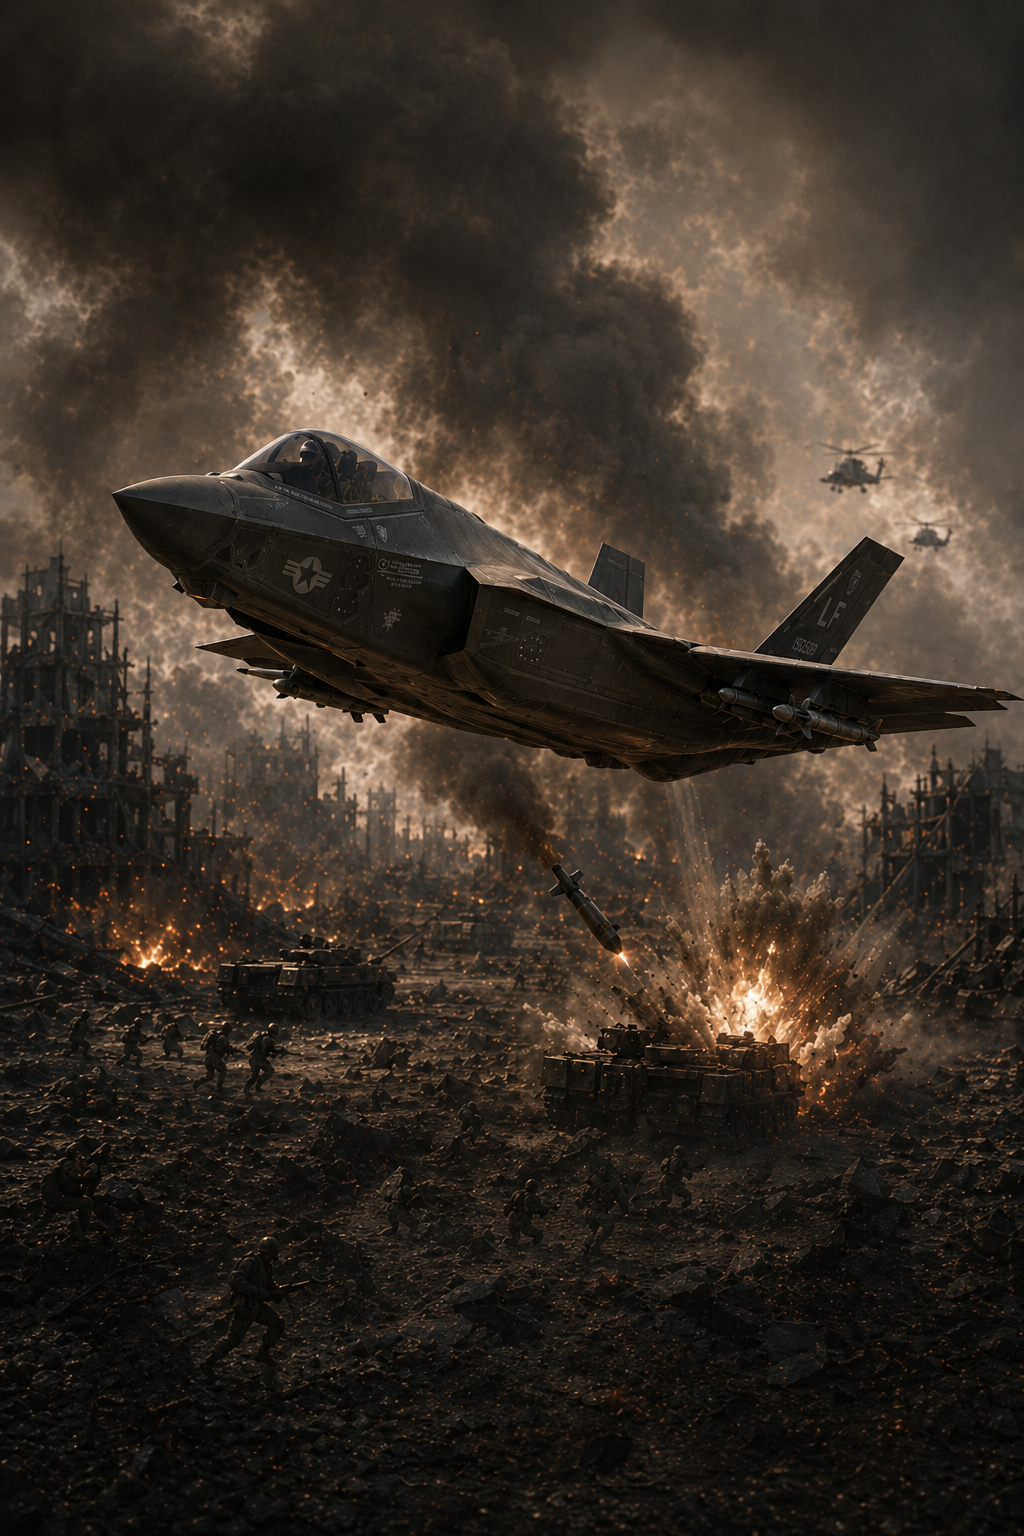
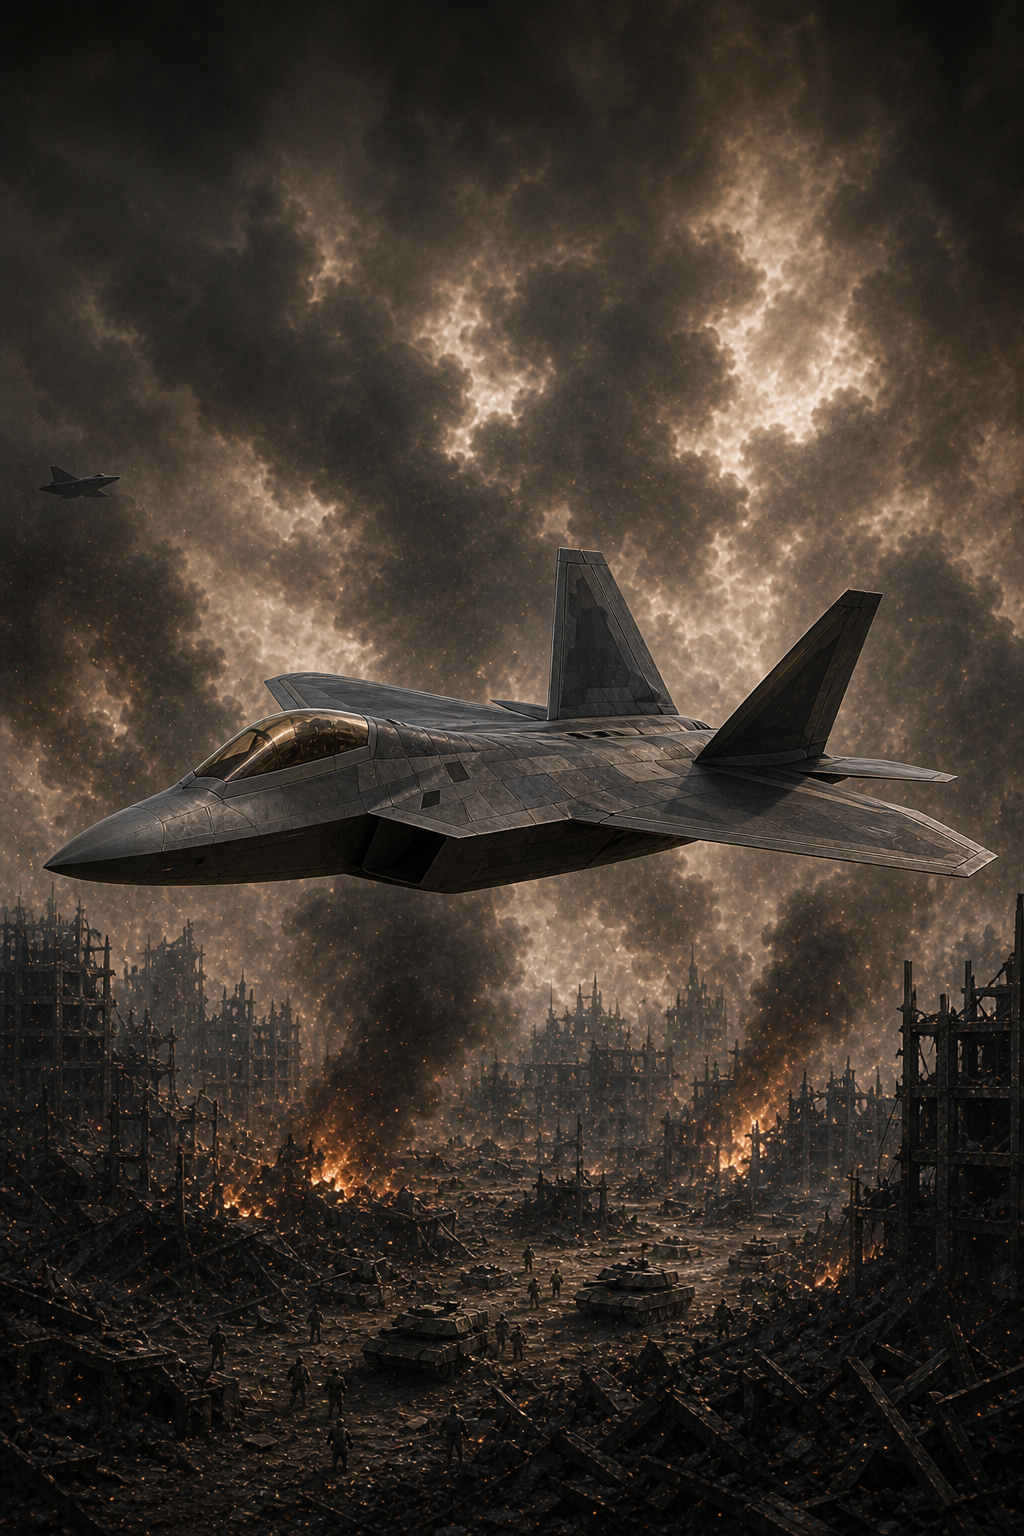
Add F-22 F-35A and Su-57 card art

diff --git a/src/game-data.js b/src/game-data.js
@@ -3283,7 +3283,7 @@ const V07_CARD_OVERRIDES = {
     "specialization": "反辐射压制、有限制空",
     "tags": ["战斗机", "SEAD", "SEAD导弹"],
     "effect": "【SEAD反辐射导弹】：对一个暴露的【重型防空】造成 5 点伤害。可被一个【重型防空】单位拦截。【有限制空】：对一个暴露的低空或高空目标造成 4 点伤害。可被防空单位拦截。",
-    "art": "us_f35",
+    "art": "us_f35a_sead",
     "ability": {
       "kind": "damage",
       "rows": ["frontline", "support"],
@@ -3613,7 +3613,7 @@ const V07_CARD_OVERRIDES = {
     "specialization": "反辐射压制、有限制空",
     "tags": ["战斗机", "SEAD", "SEAD导弹"],
     "effect": "【SEAD反辐射导弹】：对一个暴露的【重型防空】造成 5 点伤害。可被一个【重型防空】单位拦截。【有限制空】：对一个暴露的低空或高空目标造成 4 点伤害。可被防空单位拦截。",
-    "art": "ru_tu22m3",
+    "art": "ru_su57_sead",
     "ability": {
       "kind": "damage",
       "rows": ["frontline", "support"],

diff --git a/src/card-design.js b/src/card-design.js
@@ -24,6 +24,7 @@ export const GENERATED_CARD_IDS = new Set([
   "us_reaper",
   "us_f15e",
   "us_f35",
+  "us_f35a_sead",
   "us_b2",
   "us_stryker",
   "us_smoke_screen",
@@ -56,6 +57,7 @@ export const GENERATED_CARD_IDS = new Set([
   "ru_forpost",
   "ru_su34",
   "ru_su35",
+  "ru_su57_sead",
   "ru_tu22m3",
   "ru_battlefield_repair",
   "ru_electronic_suppression",
@@ -87,6 +89,7 @@ export const GENERATED_DETAIL_CARD_IDS = new Set([
   "us_reaper",
   "us_f15e",
   "us_f35",
+  "us_f35a_sead",
   "us_b2",
   "us_stryker",
   "us_smoke_screen",
@@ -119,6 +122,7 @@ export const GENERATED_DETAIL_CARD_IDS = new Set([
   "ru_forpost",
   "ru_su34",
   "ru_su35",
+  "ru_su57_sead",
   "ru_tu22m3",
   "ru_battlefield_repair",
   "ru_electronic_suppression",
